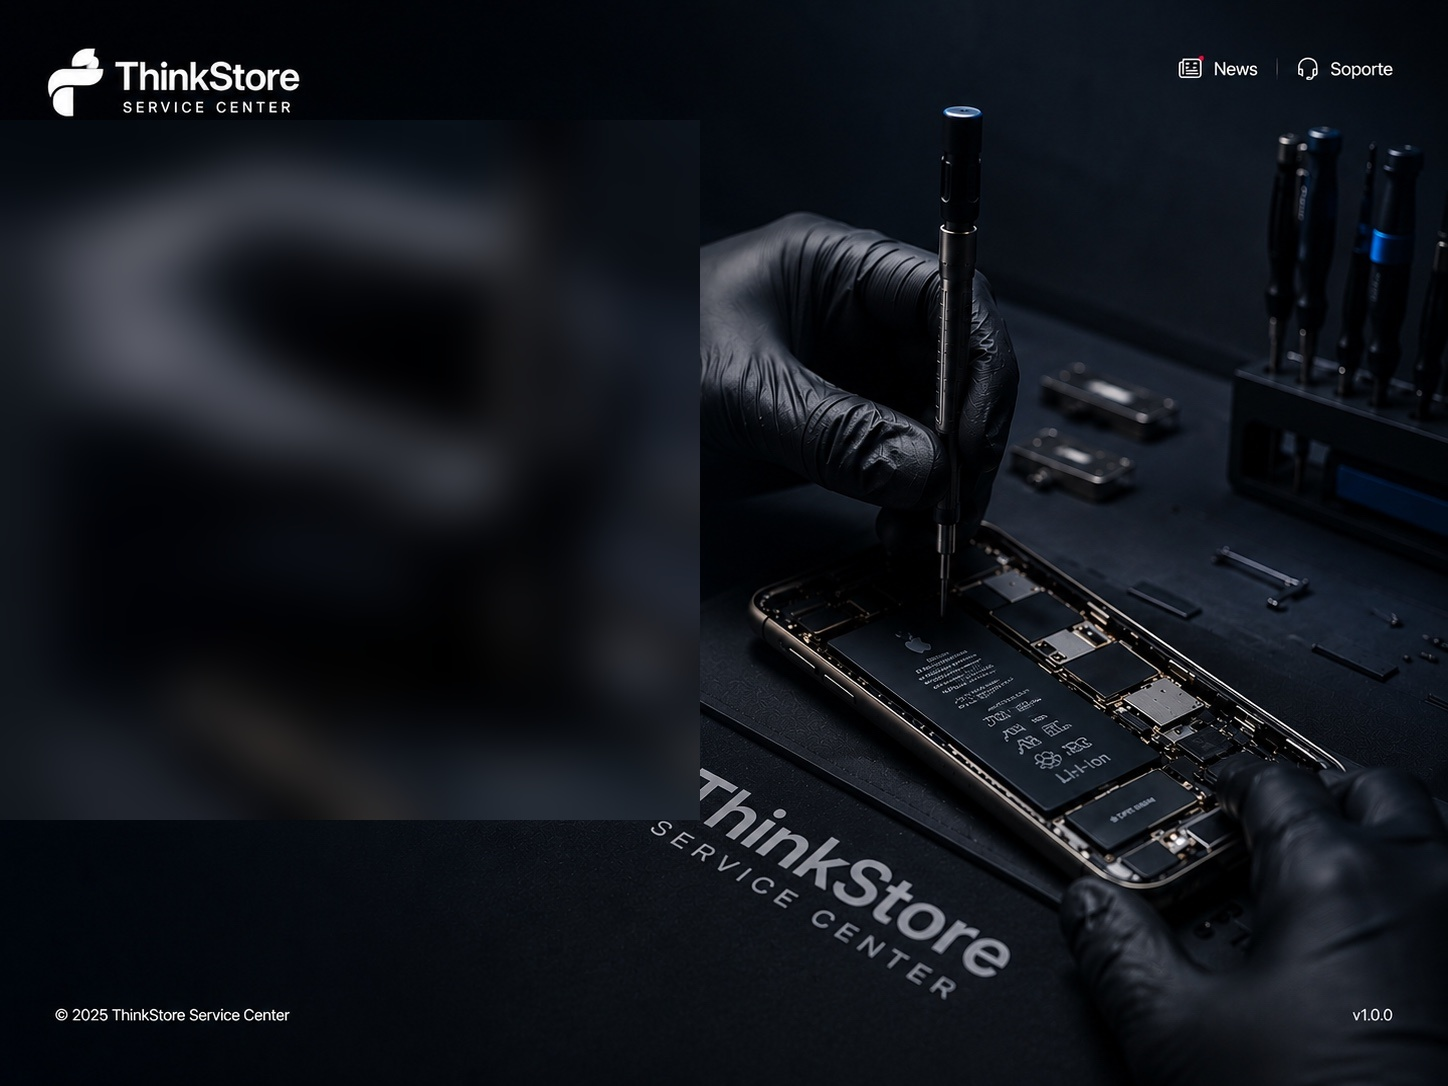
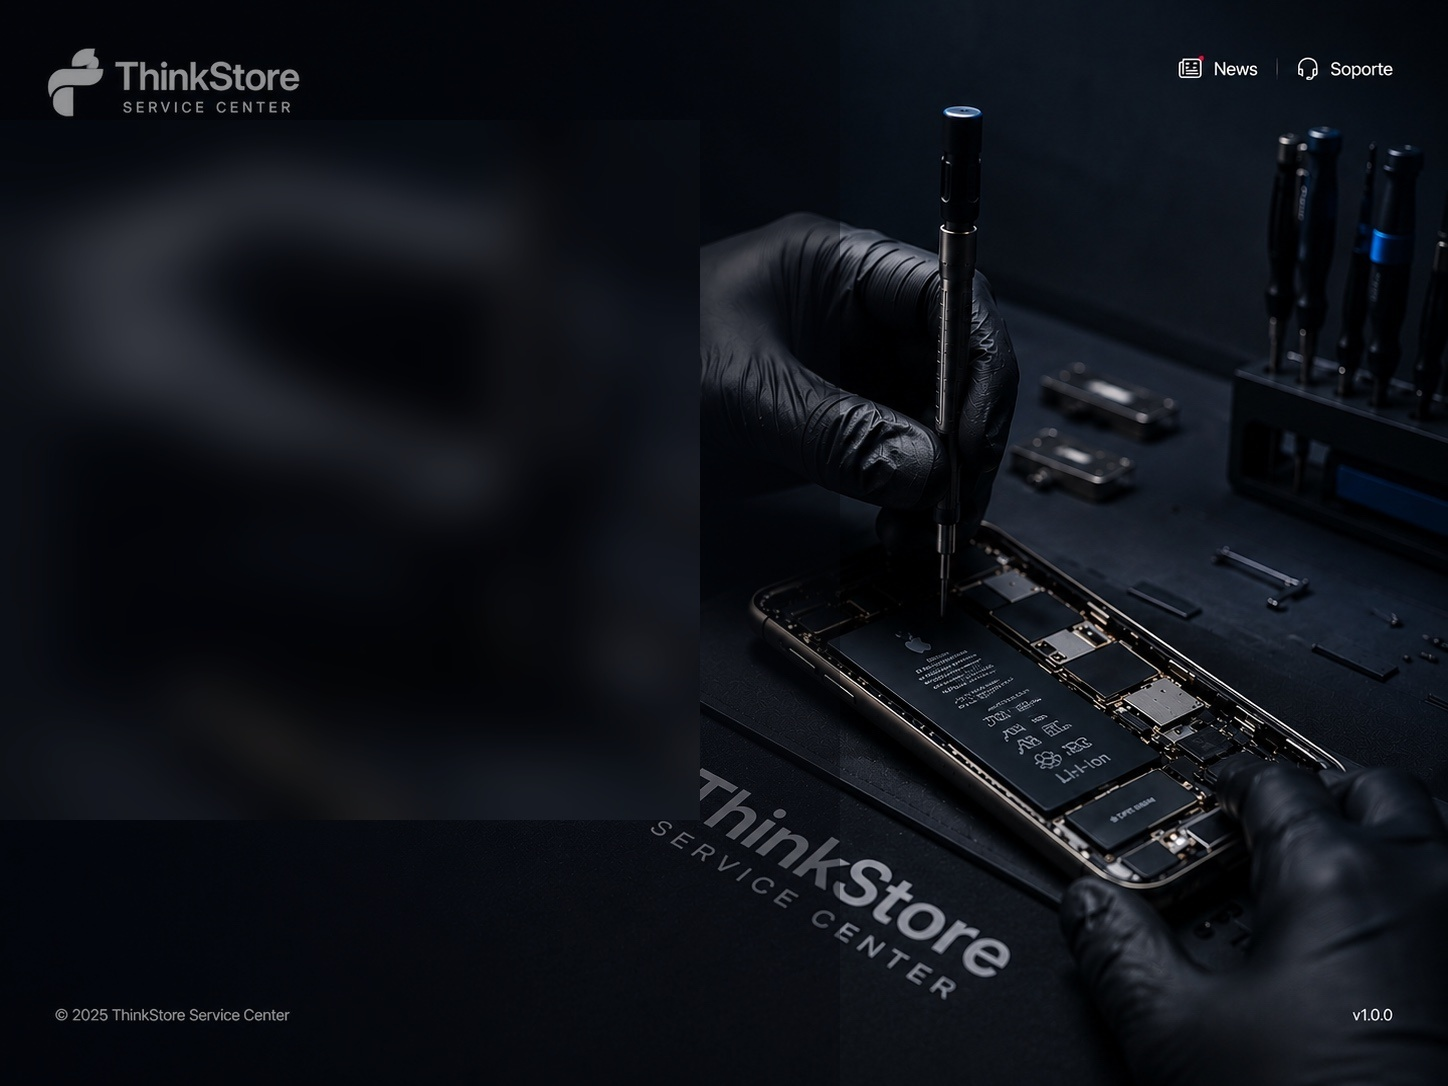
soporte actualizado

diff --git a/soporte/styles.css b/soporte/styles.css
@@ -72,3 +72,12 @@ body,
   background-position: center center !important;
   background-repeat: no-repeat !important;
 }
+
+
+/* Limpieza final del fondo */
+.hero-logo{
+ opacity:1 !important;
+}
+.ts-service-app{
+ background-position:right center !important;
+}